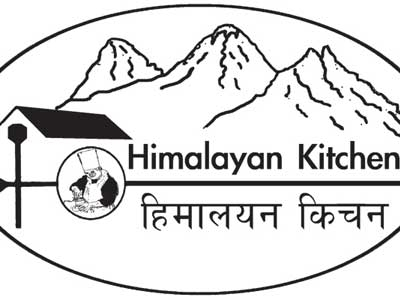
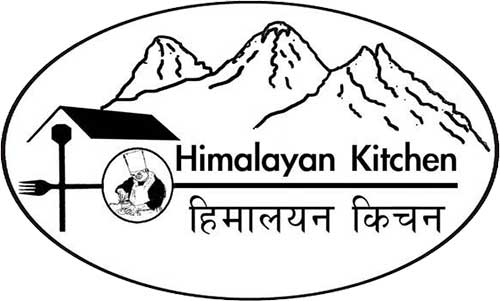
css work

Changed region(s): [[0.0, 0.0, 1.0, 1.0], [0.0, 0.15, 0.09, 0.24]]

diff --git a/app/assets/stylesheets/restaurants.scss b/app/assets/stylesheets/restaurants.scss
@@ -1,10 +1,17 @@
 .restaurant-home-container{
-  padding: 5px 0 0 5px;
+  padding: 0;
+  margin: 10px;
+
+  .restaurant-home-image-small {
+    height: 175px;
+    width: 100%;
+  }
 }
 .restaurant-header {
   display: flex;
   border-bottom: 5px;
   border-color: skyblue;
+  padding: 10px 0;
   &.simple{
     .restaurant-name{
       text-align: center;
@@ -58,12 +65,27 @@
   font-size: 16px;
   font-family: 'Amaranth';
 }
+
+.tabs .tabs-title,
+.tabs .tabs-title:hover,
+.tabs .tabs-title:focus {
+  outline: none;
+}
+
 .tabs-title a{
   font-size: 22px;
 }
+
 .tabs-panel {
   padding: 0rem !important;
 }
+
+.tabs-title > a:focus, 
+.tabs-title > a[aria-selected='true'] {
+  background: #b7d54d;
+  color: #000;
+}
+
 .l4 {
   margin-left: auto;
   margin-right: auto;
@@ -111,9 +133,11 @@
       text-align: center;
       margin-left: auto;
       margin-right: auto;
-      border: black solid;
+      // border: black solid;
       // background-color: lightblue;
-      border-radius: 3%;
+      // border-radius: 3%;
+      border: 1px solid rgba(0,0,0,.25);
+      border-radius: .25rem;
       padding: 0 10px 5px 10px;
       .card-title {
         padding-top: 10px;

diff --git a/app/assets/stylesheets/header.scss b/app/assets/stylesheets/header.scss
@@ -1,25 +1,28 @@
+.home-logo {
+  // background-color: white;
+  display: flex;
+  justify-content: center;
+  // margin-bottom: .5rem;
+  padding-top: .5rem;
+  img{
+    width: auto;
+    height: auto;
+  }
+  @media screen and (max-width: 64.9375em) {
+  }
+  @media screen and (max-width: 39.9375em) {
+    margin-bottom: .5rem;
+    line-height: 1.25em;
+  }
+}
+
 .bw-top-bar {
   display: flex;
   flex-direction: column;
   flex-wrap: wrap;
-  background-color: #2F2E2E;
-
-  .home-logo {
-    background-color: white;
-    display: flex;
-    justify-content: center;
-    margin-bottom: .5rem;
-    img{
-      width: auto;
-      height: auto;
-    }
-    @media screen and (max-width: 64.9375em) {
-    }
-    @media screen and (max-width: 39.9375em) {
-      margin-bottom: .5rem;
-      line-height: 1.25em;
-    }
-  }
+  // background-color: #2F2E2E;
+  background-color: #fff;
+  margin-bottom: 10px;
 
   .search {
     form {

diff --git a/app/assets/stylesheets/admin_nav.scss b/app/assets/stylesheets/admin_nav.scss
@@ -1,5 +1,5 @@
 nav.admin-nav {
-  background: #e6e6e6;
+  // background: #e6e6e6;
   margin: .5rem .5rem;
   padding: 0;
   border-radius: 4px;
@@ -9,7 +9,7 @@ nav.admin-nav {
 ul.admin-nav-primary-list {
   display: inline;
   list-style: none;
-  background: #e6e6e6;
+  // background: #e6e6e6;
   margin: 0;
 
   li.admin-nav-primary-item {
@@ -65,6 +65,7 @@ ul.admin-nav-primary-list {
     li.admin-nav-secondary-item {
       display: block;
       float: none;
+      padding: 10px;
 
 
       &:first-of-type {
@@ -95,7 +96,7 @@ ul.admin-nav-primary-list {
 
   .admin-nav-primary-item, .admin-nav-secondary-item {
     &:hover {
-      background: #333;
+      background: #b7d54d;
       color: #fff;
 
       > a {
@@ -104,7 +105,11 @@ ul.admin-nav-primary-list {
     }
   }
   .log-out {
-    background-color: slategray;
+    background-color: #ff5722;
     float: right;
+
+    a {
+      color: #fff !important;
+    }
   }
 }

diff --git a/app/assets/stylesheets/jace_button_design.scss b/app/assets/stylesheets/jace_button_design.scss
@@ -139,3 +139,50 @@
   justify-content: center;
 }
 
+.wb-flex {
+  display: flex;
+
+  &.flex-end {
+    justify-content: flex-end;
+  }
+
+  &.flex-between {
+    justify-content: space-between;
+  }
+
+  .btn-bw-green {
+    color: #000;
+    padding: 10px;
+    text-align: center;
+    border-radius: .25rem;
+    background-color: #b7d54d;
+    transition: all ease-in-out 0.25s;
+
+    &.btn-bw-block {
+      width: 100%;
+    }
+
+    &:hover {
+      color: #fff;
+      background-color: #97af3f;
+      transition: all ease-in-out 0.25s;
+    }
+  }
+
+  .btn-bw-red {
+    color: #000;
+    padding: 10px;
+    text-align: center;
+    border-radius: .25rem;
+    background-color: #fff;
+    border: 1px solid rgba(0,0,0,.25);
+    transition: all ease-in-out 0.25s;
+
+    &:hover {
+      color: #fff;
+      background-color: #ff5722;
+      transition: all ease-in-out 0.25s;
+    }
+  }
+}
+

diff --git a/app/assets/stylesheets/foundation_and_overrides.scss b/app/assets/stylesheets/foundation_and_overrides.scss
@@ -49,6 +49,7 @@
 @include foundation-top-bar;
 @include foundation-visibility-classes;
 @include foundation-float-classes;
+@include foundation-prototype-classes;
 
 // If you'd like to include motion-ui the foundation-rails gem comes prepackaged with it, uncomment the 3 @imports, if you are not using the gem you need to install the motion-ui sass package.
 //

diff --git a/app/assets/stylesheets/item.scss b/app/assets/stylesheets/item.scss
@@ -1,8 +1,9 @@
 .item-price{
-  color: red;
+  // color: #b7d54d;
+  color: #97af3f;
   text-align: center !important;
   font-size: 2rem;
-  font-weight: 600;
+  // font-weight: 600;
 
 }
 .food-list-title{
